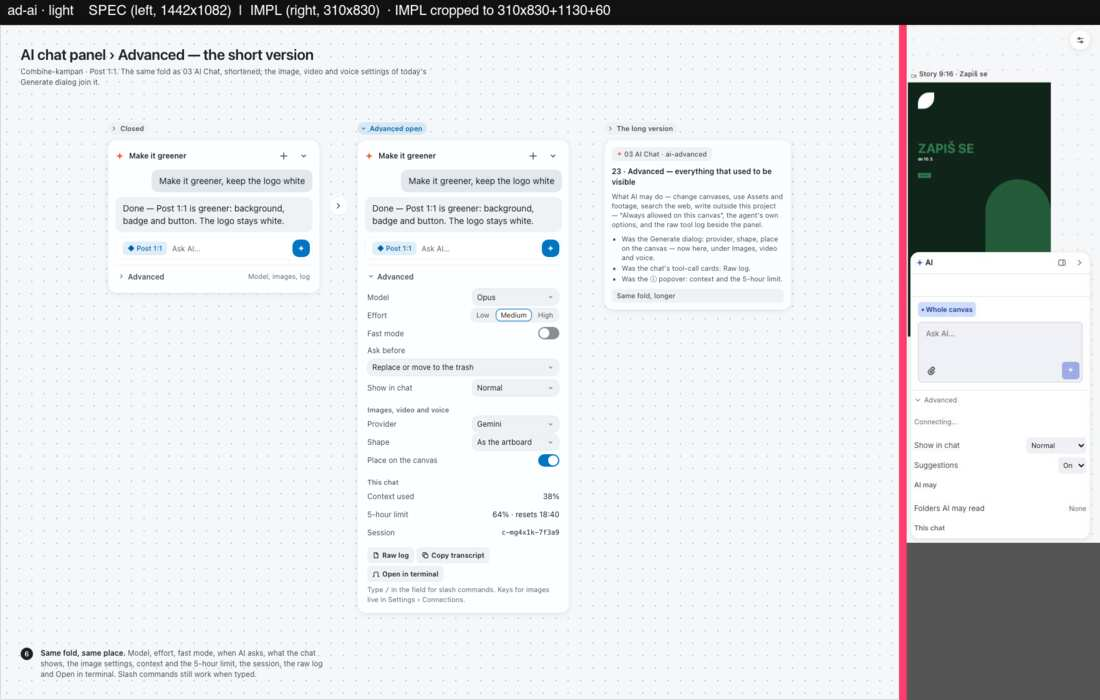
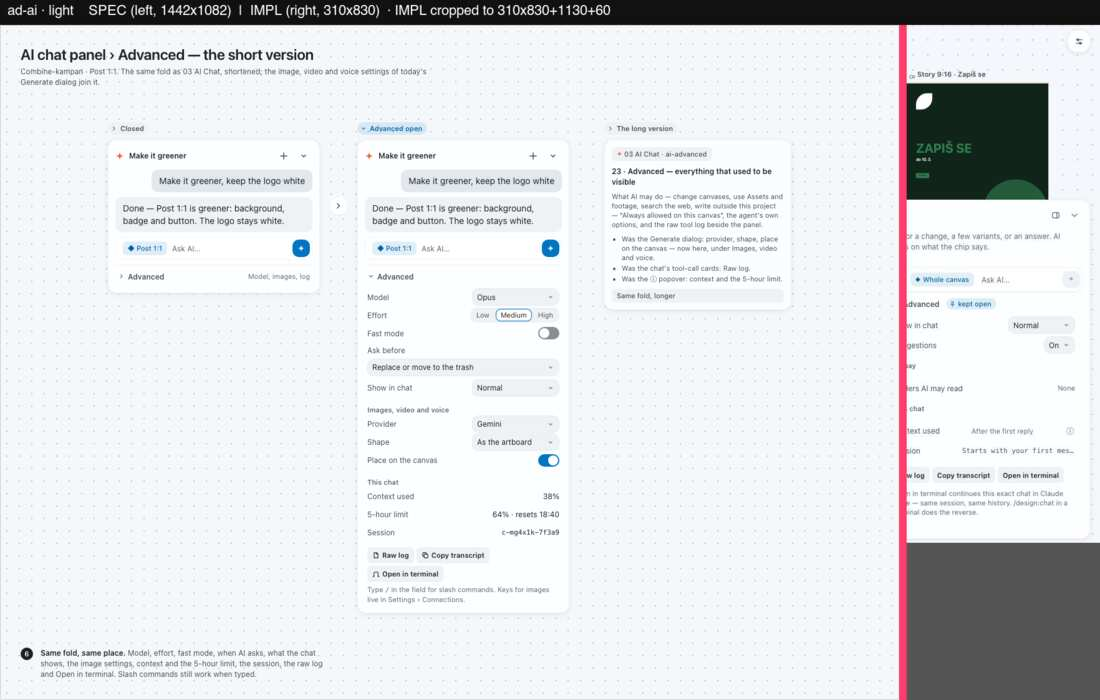
P8-C2-kitadv: stage D — re-shot 06 pairs, INDEX after-column, fix-kitadv.md (done vs open)

diff --git a/apps/studio/test/p8-c2-kitadv-toast.test.tsx b/apps/studio/test/p8-c2-kitadv-toast.test.tsx
@@ -1,9 +1,9 @@
 // Phase 8 C1/C10 — a notification is the kit's one-line pill (06 ad-open-all, 10 co-sync-back): the kind's glyph,
 // the sentence, ONE inline action in accent-text, then a quiet ×. Restart / link / reconnect events land at the top.
 import { afterAll, afterEach, beforeAll, describe, expect, test } from 'bun:test';
-import { GlobalRegistrator } from '@happy-dom/global-registrator';
 import { readFileSync } from 'node:fs';
 import { join } from 'node:path';
+import { GlobalRegistrator } from '@happy-dom/global-registrator';
 import { act } from 'react';
 import { createRoot, type Root } from 'react-dom/client';
 

diff --git a/apps/studio/test/p8-c2-kitadv-icons-copy.test.ts b/apps/studio/test/p8-c2-kitadv-icons-copy.test.ts
@@ -4,9 +4,9 @@ import { describe, expect, test } from 'bun:test';
 import { readFileSync } from 'node:fs';
 import { join } from 'node:path';
 import { STICONS } from '../client/shell/icons.jsx';
-import { glyphFor } from '../client/v2/search/palette-icons.js';
 import { COMPARE_PICTURES_WORDS } from '../client/v2/history/compare-words.js';
 import { GIT_WORDS } from '../client/v2/history/git-model.js';
+import { glyphFor } from '../client/v2/search/palette-icons.js';
 
 const CLIENT = join(import.meta.dir, '..', 'client');
 const src = (rel: string) => readFileSync(join(CLIENT, rel), 'utf8');

diff --git a/.ai/plans/notes/v2-evidence/phase8-fidelity/06-advanced/fix-kitadv.md b/.ai/plans/notes/v2-evidence/phase8-fidelity/06-advanced/fix-kitadv.md
@@ -1,0 +1,35 @@
+# Phase 8 C1-kit (rest) + C10 Advanced containers — stage C round 2, done vs open
+
+Branch `p8-c2-kitadv` from feat/maude-v2 3fd7b1658. Budget-limited (weekly cap); the lane queue was the long pole.
+Pairs for 06 are re-shot in stage D (see the INDEX "after" column) once the release client is rebuilt.
+
+## Done
+
+| item | where | critic rows |
+|---|---|---|
+| Settings sheet is 1300 x 700 (`min(…, 100%)`), rail 176, title type-md semibold, tabs carry their glyph (settings / link / more), selected tab = accent-muted + accent-text (was a bg-3 fill, a11y weak cue). Advanced is THREE columns (This Mac · Claude Code · Decision memory / Engines · Privacy / This project · Experimental · Reset), one column under 1100 px. The "Done" button stays in the DOM for the keyboard and the desktop e2e (`settings-close`) but is visually hidden until focused (06 draws none). | `v2/settings/settings.css`, `settings-sheet.jsx`, `advanced-section.jsx` | 06 ad-settings R9 + rail + Done |
+| Veil: the kit veil (`--canvas-bg` at 55 %) replaces the bg-0 62 % scrim. **Deviation from the lead brief ("no scrim"):** the board draws `<Veil />` under the Settings sheet (06 Advanced.tsx:1581), so the board wins (decision `v2-p8-owning-board-wins`). | `settings.css` | ad-settings scrim |
+| Restart now only while a build is staged ("2.0.1 is ready · Restart now"); update hint without the product name; "so AI remembers why"; server build `maude-dev-srv`. Commands (install / draw / brand import) are the board's ghost button with the duplicate glyph and plain words ("Copy install command", "Copy command"); the command itself is on the tooltip. | `advanced-section.jsx`, `panels/SettingsPanel.jsx` `CopyCommand` | copy-critic blockers (names itself, Restart disabled), design warnings |
+| Diagnostics = the Menu › Diagnostics submenu (already there, status words with the kit dot) + the sheet it opens as THREE boxes at once: Logs (660) beside Server and AI setup (400). No tabs. Sync opens alone (`data-layout="sync"`). The box asked for is marked `data-current`. Rows are the kit ARow (key fg-1 sm, value fg-0 right mono, Copy = 24 px duplicate icon button). Log well is bg-3 radius-md, source column fg-0 semibold 7ch, a warn/error row is bg-4 with the inset 2 px status bar. Filter field is the kit find with a search glyph; Copy all / Show in Finder are ghost buttons with their glyphs; Refresh is a quiet icon button. AI setup rows are the 18 px success disc with the check. The v1 migration note is gone from Server (the board's ad-logs Server box drew it too: board is stale, the note is history not copy). "Showing" reads `Canvas · Pricing`, not the file path. | `v2/diagnostics/*` | ad-diag, ad-logs, ad-syncd rows; R3 |
+| ⌘K palette is 560 wide; rows 36 px, radius-md, accent-muted when selected; the glyph tile is a quiet 24 px bg-3 square that does NOT turn accent when active (only the Ask-AI spark tile does); the path chip is the DS `.chip` (22 px, radius-sm, fg-1, medium). A fold action that names no glyph gets the one its words say (Copy code → duplicate, Copy file path → folder, Copy export command → export, Copy transcript → comment, Copy logs → sync) instead of a chevron in a tile. | `v2/search/search.css`, `v2/search/palette-icons.js` (new, pure), `dialogs/command-palette.jsx` | ad-search R8, ad-code |
+| Toasts are the kit one-line pill: kind glyph (done / problem / reload, or an explicit `icon`), the sentence, ONE inline action in accent-text, a quiet 24 px ×; no left bar; min-height 40, radius-lg, island edge. `placement: 'top'` is honoured per toast (Sonner `position`); the shell events (tabs reopened, opened-in-this-window, opened from a link) land at the top as plain info. The back-online toast already passed `placement`/`icon`; it now works. | `notifications.tsx`, `shell/util.js` `shellToast(…, extra)`, `shell-events.js`; `app.jsx` one line (forwards `extra`) | ad-open-all; C1 open list "toasts" |
+| Copy: broken-canvas card's disclosure is `Advanced` (was "Show details"); Where = icon-only Copy; Copy error ghost; Open in editor with the pen glyph. Version history's `Compare pictures` is `Compare`, ghost, never two lines. The not-versioned sentence no longer names the app. | `v2/code/*`, `v2/history/*` | copy-critic blockers x4 |
+| `.ad-row` rows: Canvases › Advanced (key sm fg-1 flex, value fg-0 right, Folder Copy = duplicate icon button, foot row xs), the error card's Error/Where rows. (Diagnostics above; Share's rows were done by C7.) | `left-panel.css`, `canvases-advanced.jsx`, `code.css` | R3 |
+| Keyboard: the Comments panel's filter tabs rove with ←/→/Home/End and have one tab stop. (Done elsewhere already: faces menu roving (C7), the access card's aria-modal + focus + trap (C7), the Assets tile menu's arrow keys, the trash Restore reveals on focus-within.) | `v2/comments/comments-panel.jsx` | C1 open list "ARIA" |
+| Text-glyph stand-ins: the Layers disclosure "▸/▾" is the kit `submenu`/`chevron` glyph; the "✓ Implement N comments" chip uses the check glyph. | `inspector/layers.jsx`, `v2/ai/Suggest.jsx` | C1 open list |
+| Kit glyphs (C4 patch request): `settings`, `corner`, `done`, `view`, `minus`, `spark` added to `STICONS`. The export code draws no private glyphs of its own any more (C4 switched to `StIcon`), so there was nothing to switch. | `shell/icons.jsx` | patch request |
+| Test ids: `diag-tab-<view>` retired (no tabs); `diag-trio`, `settings-advanced-cols` added; `settings-update-restart` text. | `TESTIDS.md`, `testids.json` | — |
+
+Tests (red before, green after): `p8-c2-kitadv-icons-copy` (glyphs, copy, palette glyph mapping), `p8-c2-kitadv-toast` (pill anatomy), `v2-diagnostics-render` (three boxes, no tabs, ARow Copy, Sync alone), `v2-settings` (three columns, rail glyphs, Restart only when staged).
+
+## Open (not done; why)
+
+- **AI fold "empty headings"** — not a defect in the code: "AI may" always holds the "Folders AI may read" row, "This chat" holds Context / Session; the stage-A crop cut them. 03 owns the fold (the board carries `AI may`).
+- **ad-edge-syntax**: the provenance clause ("Its code was changed outside the app 2 min ago…") needs a server signal for who wrote the file; the dimmed last-good boards behind the card need a last-good render. Neither exists. The card is otherwise the board's.
+- **ad-history container**: a floating 340/400 island instead of the full-height dock column is panel-layout work (`shell/dock.jsx`), the chrome builder's. "All / Named / Made by AI / People" and Compare / Restore under the list are 11's.
+- **ad-pinned**: the Canvases panel collapsing while a panel is pinned is the pinned `display: contents` wrapper bug (red-test builder).
+- **ad-export Advanced body** is one column on the board, two on the app, plus the exact-scale `2.5×` single field and the terminal block: C4's open list.
+- **Settings row text**: "one line + one shared hint per group" — most rows still carry a second explanatory line (kept: each is a nothing-deleted row's explanation).
+- **ad-share**, **ad-inspector** fold placement, **ad-timeline**, **ad-ds**, **ad-menus**, **ad-edge-sync / hub / where / remember**: unreachable in the browser lane (or other areas); unchanged from stage A.
+- Desktop e2e `advanced-diagnostics.e2e.ts` and `team-project.e2e.ts` still click `diag-tab-*` — they need re-pointing to `diag-logs` / `diag-server` / `diag-ai` (not run; written specs).
+- Characterization goldens (`browser__settings*.txt` etc.) differ — the lead regenerates after stage C.

diff --git a/.ai/plans/notes/v2-evidence/phase8-fidelity/06-advanced/INDEX.md b/.ai/plans/notes/v2-evidence/phase8-fidelity/06-advanced/INDEX.md
@@ -63,3 +63,26 @@ Theme: both themes were made for every artboard. Differences below are the dark 
 | `ad-edge-where` | Where you are changes a few Advanced rows - browser, comment-only, local, offline (table) | not reachable | no - needs those contexts (browser viewer, role, offline) | n/a | same structure; chrome follows the light host theme | `06-advanced/ad-edge-where-light.jpg` |
 | `ad-edge-remember` | An Advanced you open stays open - for that panel (remembered fold across days and canvases) | not reachable as one state | no - a per-Mac preference story over days (the fold is remembered per panel under a fold key) | n/a | base | `06-advanced/ad-edge-remember-dark.jpg` |
 | `ad-edge-remember` | An Advanced you open stays open - for that panel (remembered fold across days and canvases) | not reachable as one state | no - a per-Mac preference story over days (the fold is remembered per panel under a fold key) | n/a | same structure; chrome follows the light host theme | `06-advanced/ad-edge-remember-light.jpg` |
+
+## After stage C round 2 (kit-advanced) — re-shot 2026-10-24
+
+The pairs above (`06-advanced/<id>-<theme>.jpg`) were overwritten with the release client built from branch `p8-c2-kitadv`. Harness: stage A's, repointed (`s06d.mjs` = `s06b` + the Diagnostics popover, the three boxes, Settings › Advanced, Open all). Fix log: `fix-kitadv.md`.
+
+| id | dark | light | state now |
+|---|---|---|---|
+| ad-left | fixed | fixed | kit fold row + "kept open", ARow rows (sm / fg-0 right, Folder Copy = icon), kit switch; still differs: the extra "Open canvas" row (a nothing-deleted row), no file-name subtitles / row menu / Trash card driven |
+| ad-inspector | still differs | still differs | fold row + selects are the kit's; the fold sits under about 25 rows (Inspector builder's layout) |
+| ad-ai | fixed (look) | fixed (look) | kit fold, kit selects; the headings are not empty (Folders row sits under "AI may"); Model / Effort / Fast need a configured agent (H) |
+| ad-share | not re-shot | not re-shot | the harness step could not reach the cluster after the pin step (frame is stage A's); C7 owns the fixes |
+| ad-export | still differs | still differs | kit fold + selects; Advanced body layout and the terminal block are C4's open list |
+| ad-history | still differs | still differs | "Compare" is one line, kit fold; container (island vs dock) is the chrome builder's |
+| ad-diag | board-fixed / fixed | board-fixed / fixed | the menu popover (Sync · Server · AI setup · Logs · Reload canvas · Check AI setup again · Advanced) with kit status dots |
+| ad-logs | fixed | fixed | three boxes at once, no tabs; kit seg, find, log well, rows, discs; still differs: the spec's "reloaded" pill, and the log content (a stub on this fixture) |
+| ad-syncd | not re-shot | not re-shot | the Sync view opens alone now; the harness step used a palette row that is not on this local fixture ("nothing to sync") |
+| ad-settings | fixed (layout) | fixed (layout) | 1300 x 700, three columns, rail glyphs, kit veil; still differs: Engines cards are the v1 cards (taller than the board's model cards), a second hint line under many rows |
+| ad-pinned | still differs | still differs | the Canvases-collapses-while-pinned bug is the red-test builder's |
+| ad-search | fixed | fixed | 560, 36 px rows, quiet glyph tile, DS chip path, per-action glyphs |
+| ad-open-all | fixed | fixed | one-line pill with the done glyph and "Close all" inline |
+| ad-code | fixed (palette rows) | fixed (palette rows) | per-action glyphs; the read-only code panel was not opened |
+| ad-edge-syntax | still differs | still differs | disclosure is "Advanced", ARow rows, ghost Copy error; the provenance clause and the last-good ghost boards need server signals |
+| ad-map · ad-why · ad-trace · ad-timeline · ad-ds · ad-menus · ad-edge-sync · ad-edge-hub · ad-edge-where · ad-edge-remember | unreachable | unreachable | unchanged: documentation, native menu bar, hub / roles / offline, a video canvas, a Design system board |
